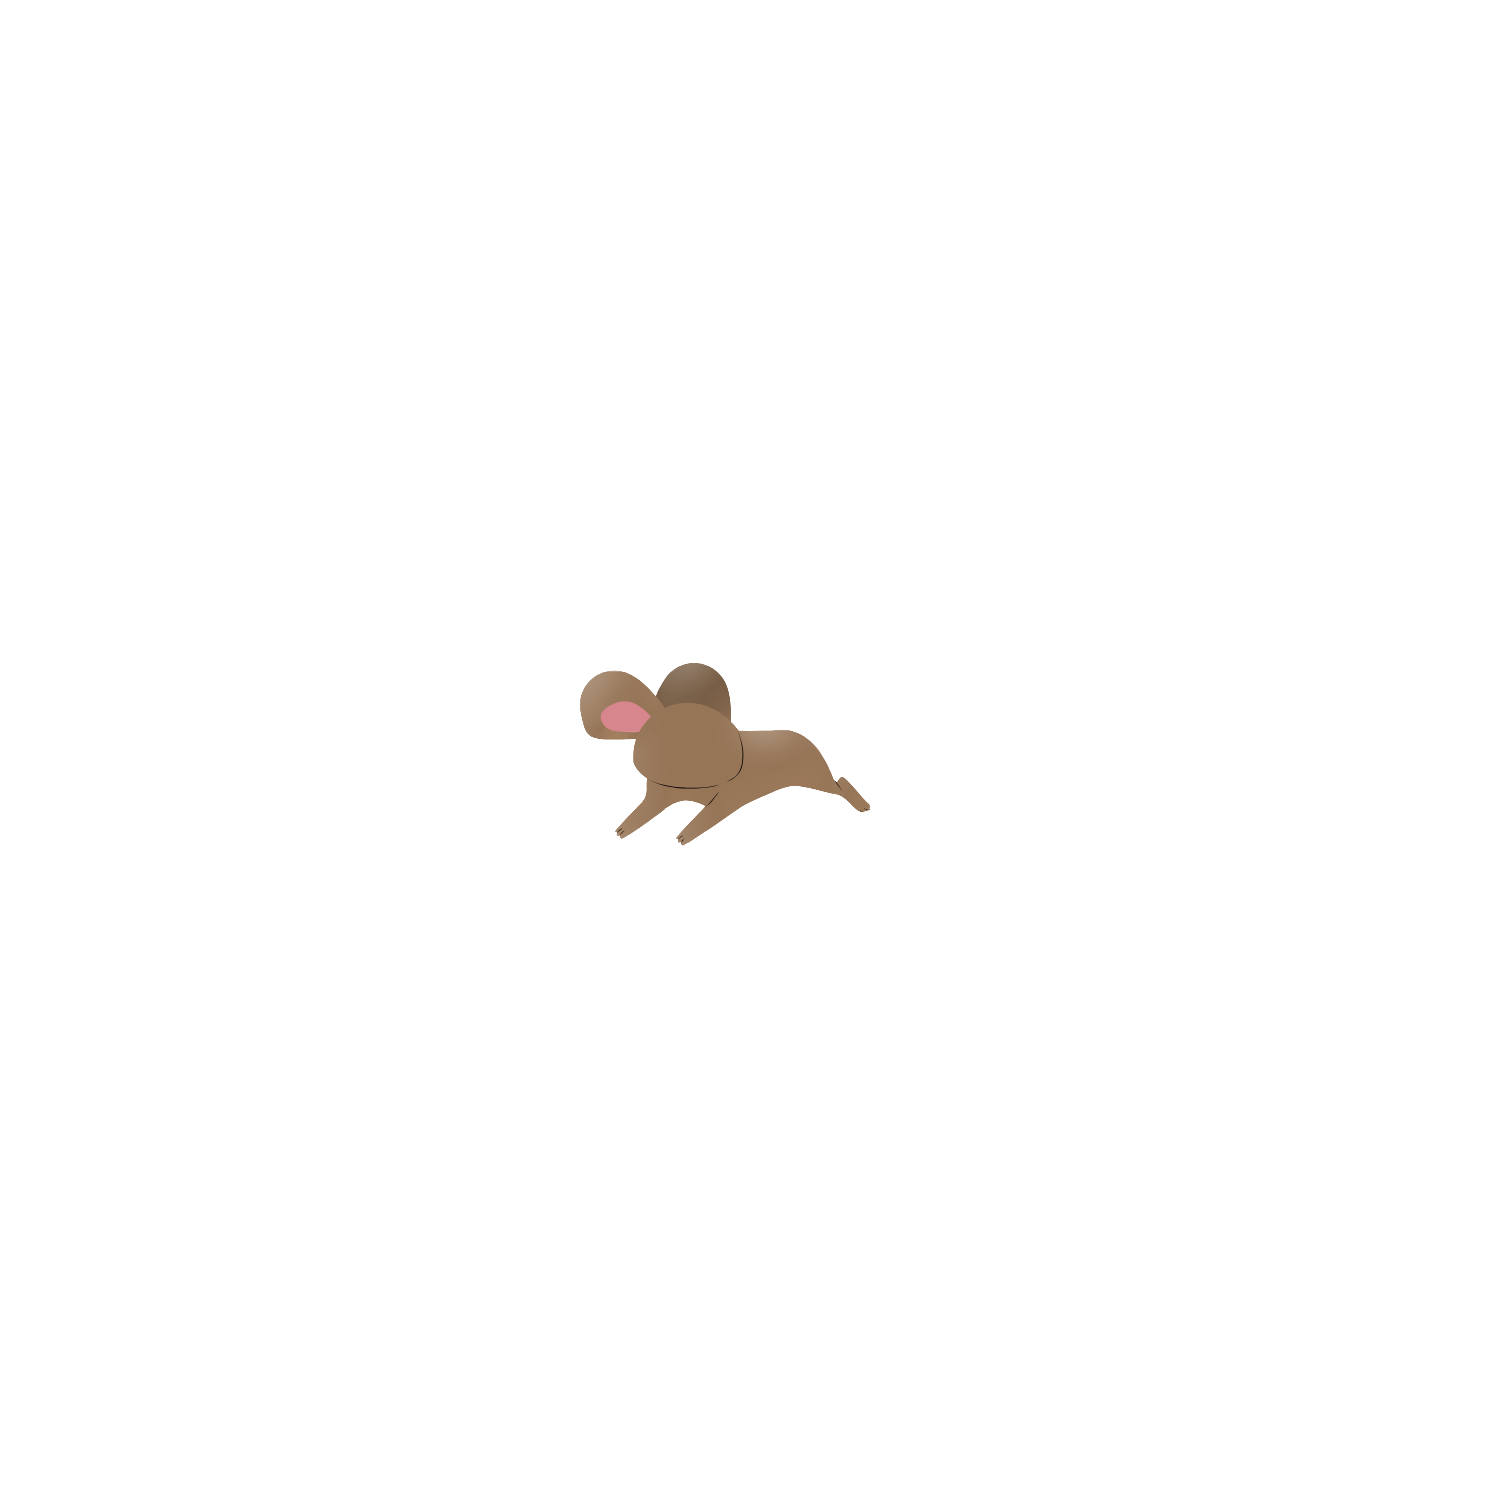
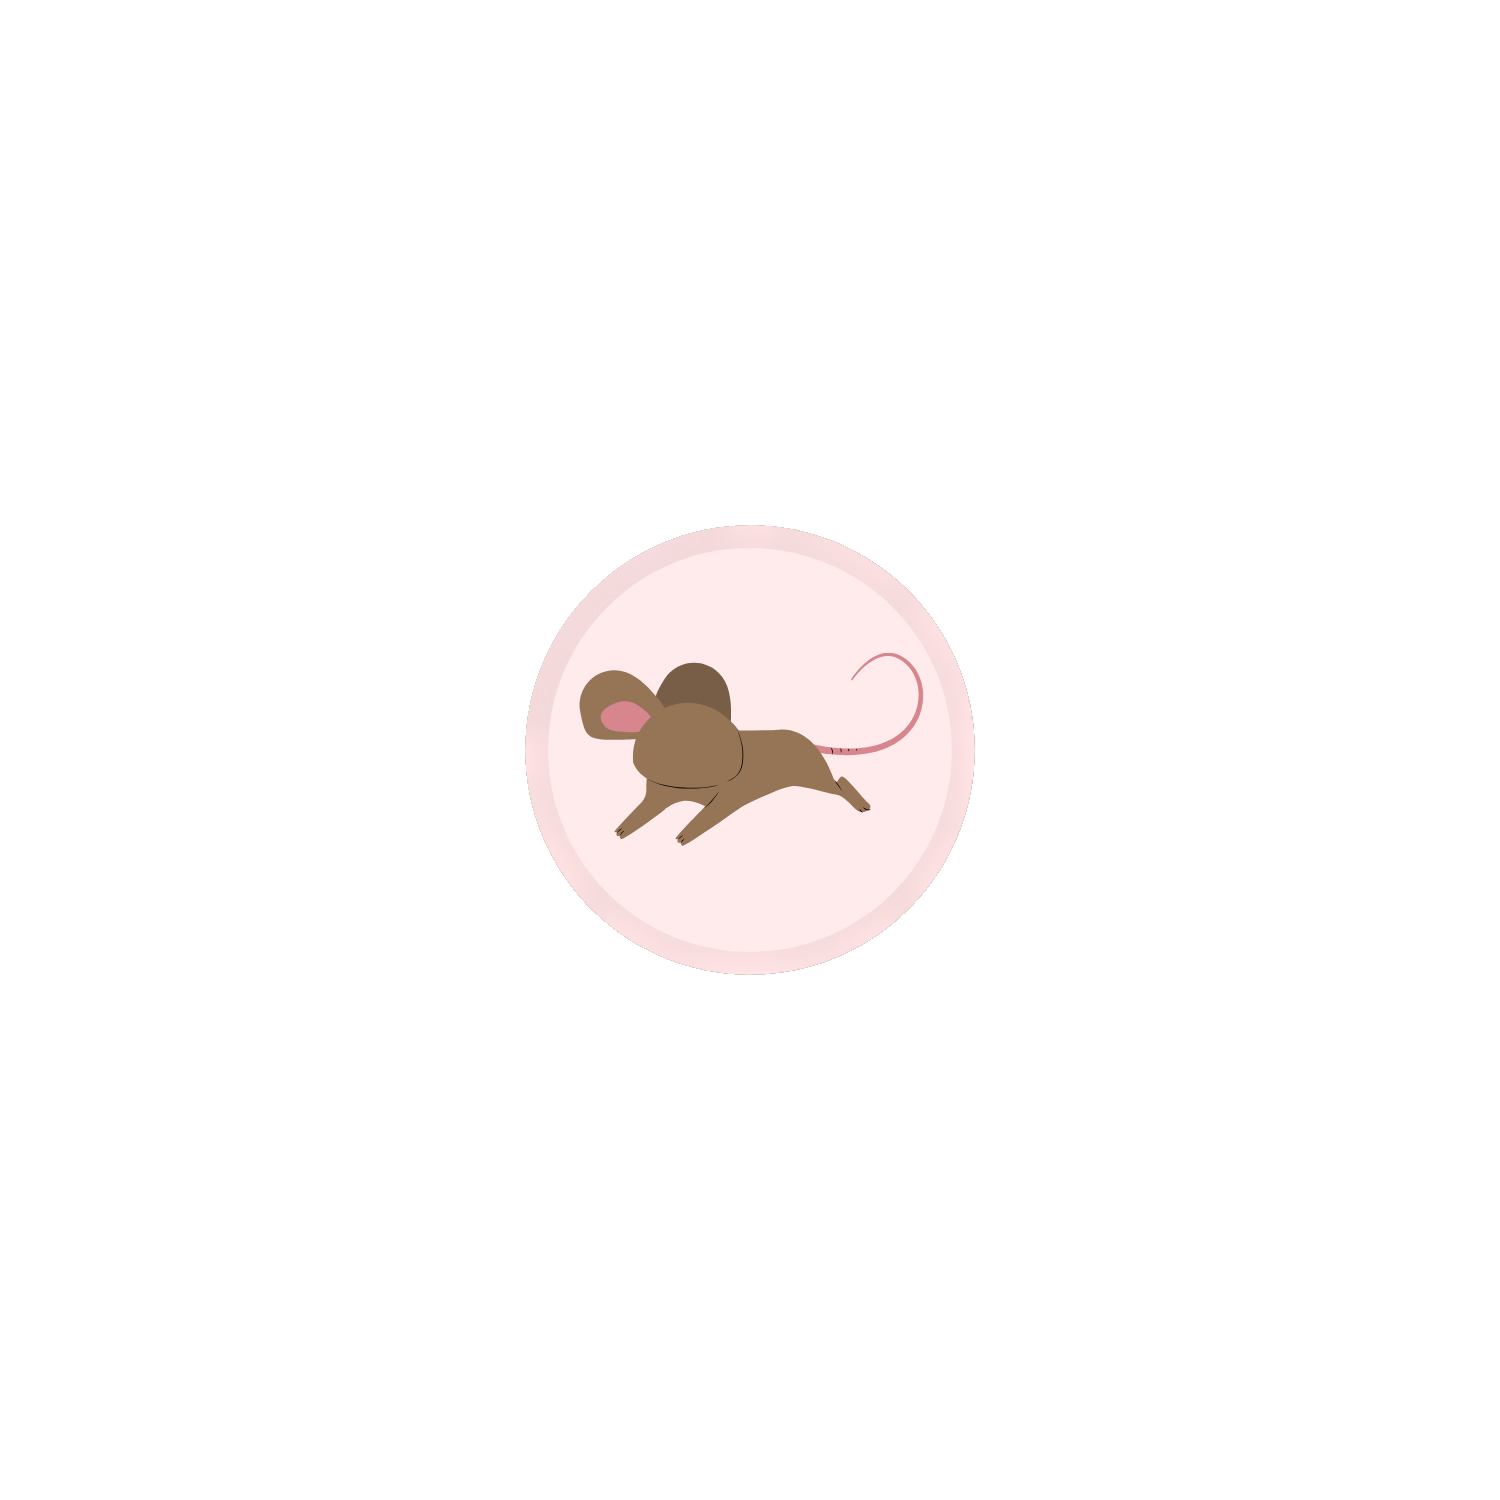
re-added rodent badge

diff --git a/src/main/resources/templates/home/about.html b/src/main/resources/templates/home/about.html
@@ -31,17 +31,17 @@
                         </div>
                     </div>
                     <div class="card-footer d-flex ">
-                        <svg xmlns="http://www.w3.org/2000/svg" width="35" height="35" fill="currentColor"
-                             class="bi bi-github" viewBox="0 0 16 16">
-                            <a href="https://github.com/emilysmendes">
-                            <path d="M8 0C3.58 0 0 3.58 0 8c0 3.54 2.29 6.53 5.47 7.59.4.07.55-.17.55-.38 0-.19-.01-.82-.01-1.49-2.01.37-2.53-.49-2.69-.94-.09-.23-.48-.94-.82-1.13-.28-.15-.68-.52-.01-.53.63-.01 1.08.58 1.23.82.72 1.21 1.87.87 2.33.66.07-.52.28-.87.51-1.07-1.78-.2-3.64-.89-3.64-3.95 0-.87.31-1.59.82-2.15-.08-.2-.36-1.02.08-2.12 0 0 .67-.21 2.2.82.64-.18 1.32-.27 2-.27.68 0 1.36.09 2 .27 1.53-1.04 2.2-.82 2.2-.82.44 1.1.16 1.92.08 2.12.51.56.82 1.27.82 2.15 0 3.07-1.87 3.75-3.65 3.95.29.25.54.73.54 1.48 0 1.07-.01 1.93-.01 2.2 0 .21.15.46.55.38A8.012 8.012 0 0 0 16 8c0-4.42-3.58-8-8-8z"/></a>
-                        </svg>
-                        <svg xmlns="http://www.w3.org/2000/svg" width="35" height="35" fill="dodgerblue"
-                             class="bi bi-linkedin" viewBox="0 0 16 16">
-<a href="https://www.linkedin.com/in/emilysvetcos/">
-                            <path d="M0 1.146C0 .513.526 0 1.175 0h13.65C15.474 0 16 .513 16 1.146v13.708c0 .633-.526 1.146-1.175 1.146H1.175C.526 16 0 15.487 0 14.854V1.146zm4.943 12.248V6.169H2.542v7.225h2.401zm-1.2-8.212c.837 0 1.358-.554 1.358-1.248-.015-.709-.52-1.248-1.342-1.248-.822 0-1.359.54-1.359 1.248 0 .694.521 1.248 1.327 1.248h.016zm4.908 8.212V9.359c0-.216.016-.432.08-.586.173-.431.568-.878 1.232-.878.869 0 1.216.662 1.216 1.634v3.865h2.401V9.25c0-2.22-1.184-3.252-2.764-3.252-1.274 0-1.845.7-2.165 1.193v.025h-.016a5.54 5.54 0 0 1 .016-.025V6.169h-2.4c.03.678 0 7.225 0 7.225h2.4z"/></a>
-                        </svg>
-                        <img src="/img/codeuplogo.jpeg" class="alumni-logo" alt="...">
+                        <a href="https://github.com/emilysmendes">
+                            <img src="/img/github.png" class="githubLogo">
+                        </a>
+
+                        <a href="https://www.linkedin.com/in/emilysvetcos/">
+                            <img src="/img/linkedin.png" class="linkedInLogo">
+                        </a>
+
+                        <a href="https://alumni.codeup.com/candidate/emily-mendes/">
+                            <img src="/img/codeuplogo.jpeg" class="AlumniLogo">
+                        </a>
                     </div>
                 </div>
                 <!--    Sam card-->
@@ -139,7 +139,15 @@
                 nurture our animal friends back to health and happiness. We're equally dedicated to education, aiming to
                 raise awareness about responsible pet ownership, animal welfare, and the rewards of fostering. </p>
             <p class="body-text">
-                In addition to our primary mission, Kyte Rescue understands the importance of building a strong and interconnected community of animal lovers. We believe that the bond between humans and animals is not only a source of companionship but also a foundation for empathy and kindness. To foster this belief, we regularly organize events and workshops that bring together our supporters, volunteers, and adopters. These gatherings serve as a platform for sharing experiences, knowledge, and stories of transformation, further reinforcing the idea that every rescued animal is a testament to the power of compassion. By uniting people from all walks of life, we hope to create a ripple effect of positive change that extends beyond our shelter's walls, reaching every corner of our community and beyond. Together, we can make the world a better place for animals and humans alike.
+                In addition to our primary mission, Kyte Rescue understands the importance of building a strong and
+                interconnected community of animal lovers. We believe that the bond between humans and animals is not
+                only a source of companionship but also a foundation for empathy and kindness. To foster this belief, we
+                regularly organize events and workshops that bring together our supporters, volunteers, and adopters.
+                These gatherings serve as a platform for sharing experiences, knowledge, and stories of transformation,
+                further reinforcing the idea that every rescued animal is a testament to the power of compassion. By
+                uniting people from all walks of life, we hope to create a ripple effect of positive change that extends
+                beyond our shelter's walls, reaching every corner of our community and beyond. Together, we can make the
+                world a better place for animals and humans alike.
             </p>
         </div>
     </div>
@@ -254,8 +262,7 @@
         </div>
     </div>
 </div>
-    <!--page wrapper div-->
-
+<!--page wrapper div-->
 
 
 <footer th:insert="~{partials/footer :: footer}"></footer>

diff --git a/src/main/resources/static/css/about.css b/src/main/resources/static/css/about.css
@@ -110,8 +110,8 @@ h1.meet-Devs {
 
 
 div#accordionExample {
-    --bs-accordion-bg: #ffffff;
-    --bs-accordion-active-bg: var(--muave);
+    --bs-accordion-bg: var(--muave);
+    /*--bs-accordion-active-bg: var(--muave);*/
 
 }
 

diff --git a/src/main/resources/static/css/mainStyling.css b/src/main/resources/static/css/mainStyling.css
@@ -1,6 +1,6 @@
 :root {
     --baby-blue: #eef9ff;
-    --muave: #cbe2ff;
+    --muave: #e8e8e8;
     --peach: #fdccbc;
     --cream: #ffeee2;
     --blush: #f4d9db;
